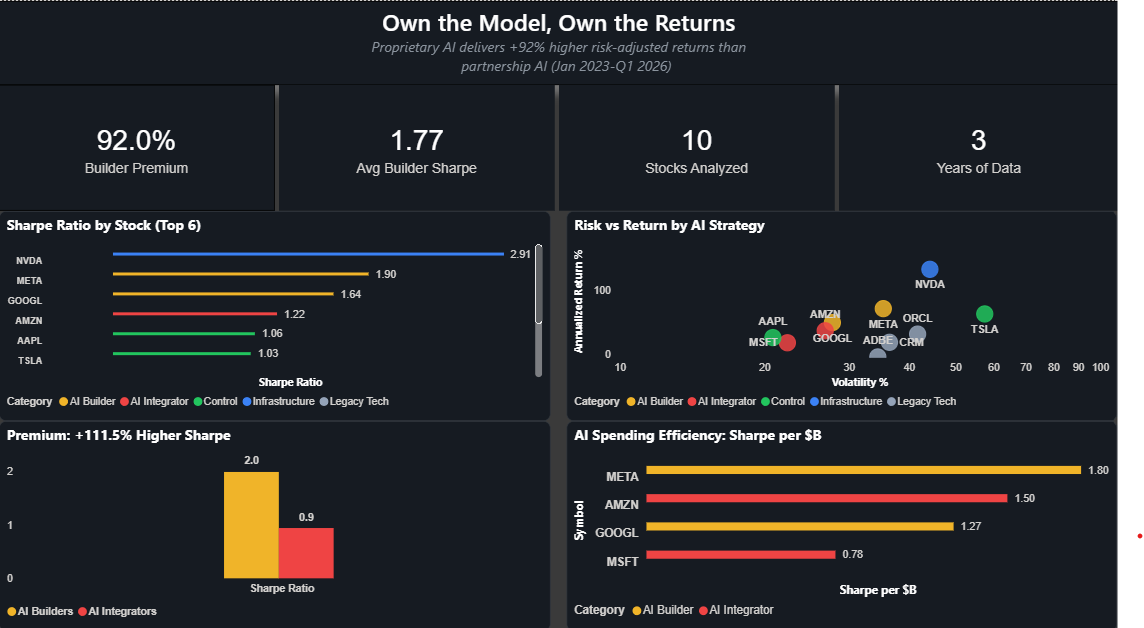
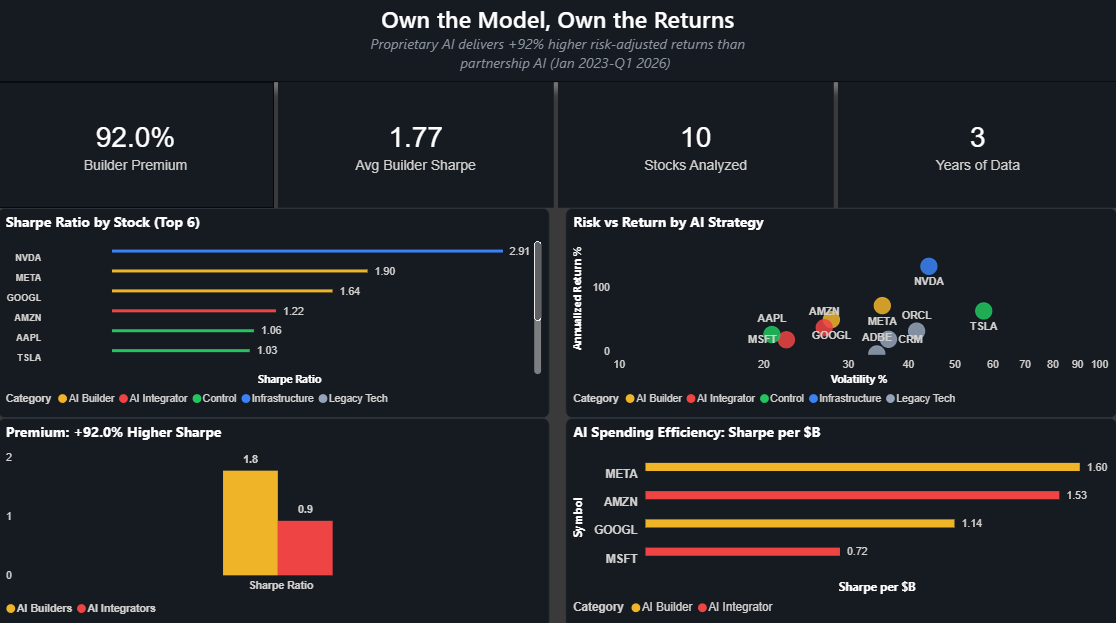
chore: final dashboard screenshot (#21)
* docs: add p-value, universe framing, and frozen analysis statement

* chore: update dashboard screenshot with final corrected metrics

Builder Premium +92.0%, Avg Builder 1.8, Avg Integrator 0.9, chart title fixed.

---------

diff --git a/README.md b/README.md
@@ -28,7 +28,9 @@ Analysis of risk-adjusted returns (Jan 2023 – Q1 2026) across 10 major tech st
 
 **Builder Premium: +92.0%** — Companies building proprietary AI outperform those renting it through partnerships by 92% on risk-adjusted returns. Confirmed Q1 2026 — narrowed from the peak through a software sector correction, but direction held.
 
-Spearman rank correlation between AI% of capex and Sharpe ratio: **ρ = +0.800** — the premium holds stock by stock, not just in aggregate.
+Spearman rank correlation between AI% of capex and Sharpe ratio: **ρ = +0.800** (t ≈ 3.77, p ≈ 0.005) — statistically significant at the 0.01 level. This is a universe of every major AI builder and integrator at scale, not a sample — the premium holds stock by stock, not just in aggregate.
+
+Analysis frozen at Q1 2026 — confirmed through a software sector correction and elevated macro volatility.
 
 ### Macro Regime Analysis
 
